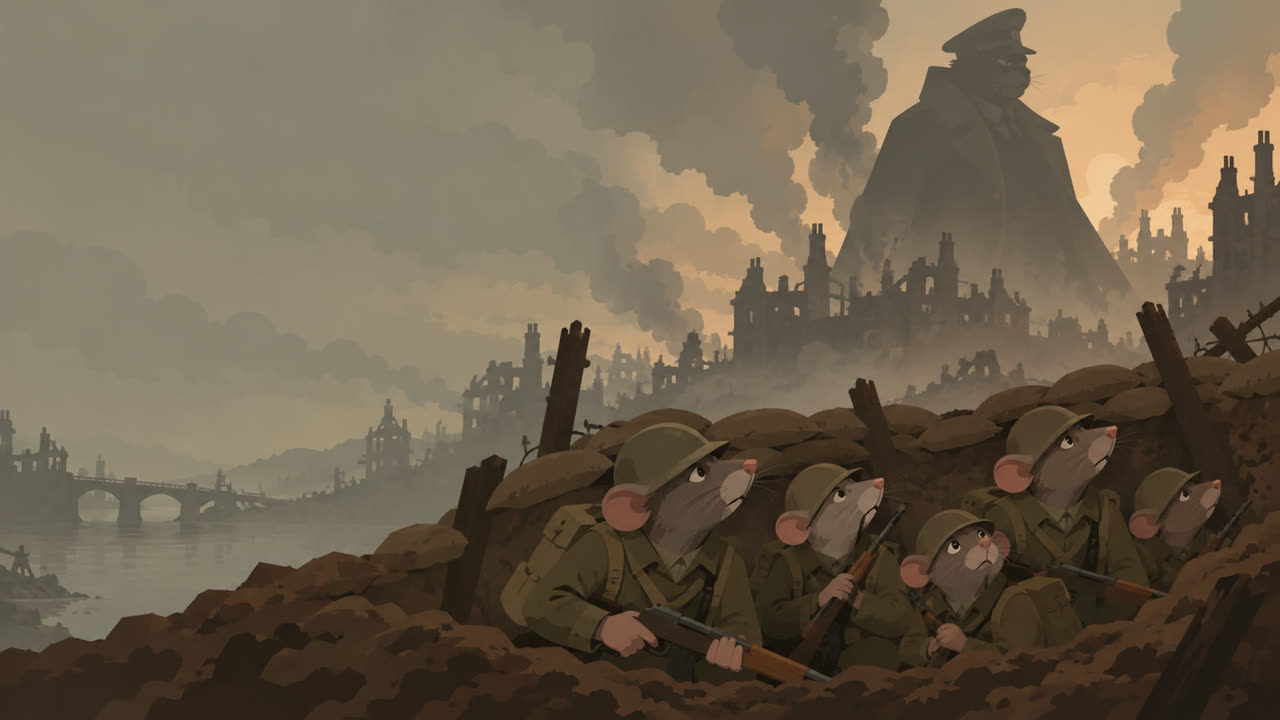
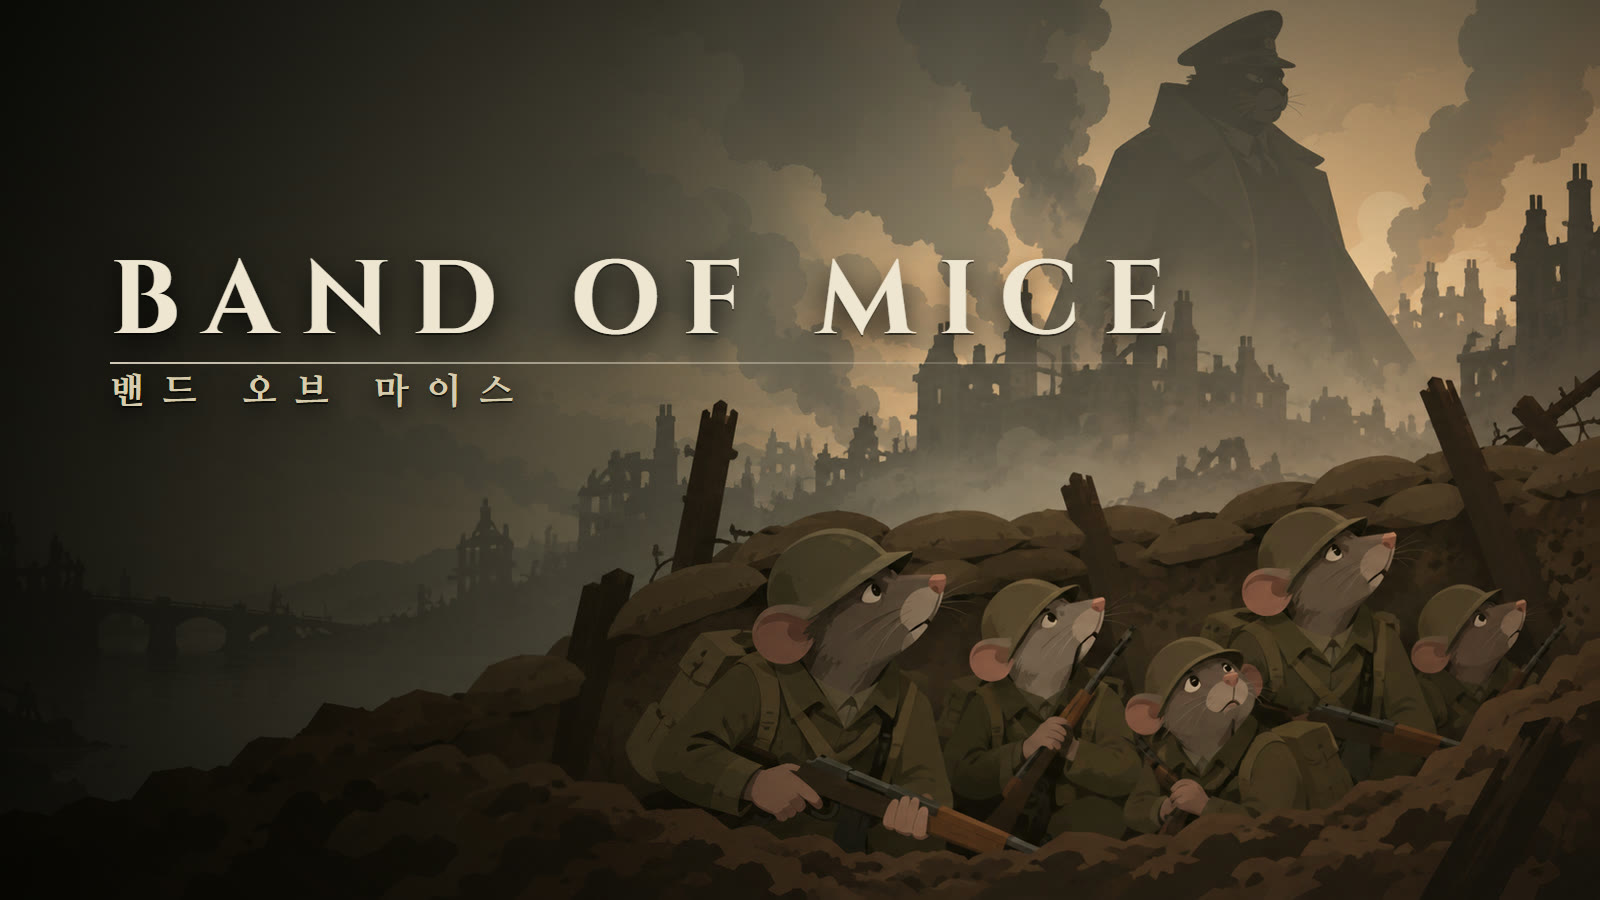
게임 이름 정리(가제) · 타이틀 로고 썸네일
- 쥐적선 → 쥐항해 시대, 쥐스컴 → 밴드 오브 마이스 (폴더 · 파일 · 문구 전체)
- 기사쥐의 모험 · 쥐항해 시대 · 밴드 오브 마이스 표지와 기획서 포스터에 게임별 타이틀 로고 합성
  (기사쥐: 픽셀 팝아트 / 쥐항해 시대: 해도 양피지 리본 / 밴드 오브 마이스: 자간 넓은 세리프)

diff --git a/index.html b/index.html
@@ -1817,12 +1817,12 @@
                             <div class="nf-card-info"><div class="nf-card-kicker">2D ACTION METROIDVANIA</div><h3>기사쥐의 모험</h3><p>쓰레기로 만든 갑옷의 꼬마 기사쥐. 픽셀 팝아트 액션 메트로베니아.</p><div class="card-tags"><span>액션</span><span>메트로베니아</span><span>웹 프로토</span></div></div>
                         </article>
                         <article class="nf-card nf-landscape" onclick="openProjectDetail('ratpirate')">
-                            <div class="card-media"><img src="assets/projects/ratpirate.jpg" alt="쥐적선" loading="lazy"><span class="card-top-badge">S</span><span class="card-new">플레이 가능</span></div>
-                            <div class="nf-card-info"><div class="nf-card-kicker">TOP-VIEW NAVAL ACTION</div><h3>쥐적선</h3><p>뱃전 일제 사격으로 일곱 바다를 정복하는 탑뷰 해전 액션.</p><div class="card-tags"><span>해전</span><span>배 진화</span><span>웹 플레이</span></div></div>
+                            <div class="card-media"><img src="assets/projects/ratpirate.jpg" alt="쥐항해 시대" loading="lazy"><span class="card-top-badge">S</span><span class="card-new">플레이 가능</span></div>
+                            <div class="nf-card-info"><div class="nf-card-kicker">TOP-VIEW NAVAL ACTION</div><h3>쥐항해 시대</h3><p>뱃전 일제 사격으로 일곱 바다를 정복하는 탑뷰 해전 액션.</p><div class="card-tags"><span>해전</span><span>배 진화</span><span>웹 플레이</span></div></div>
                         </article>
                         <article class="nf-card nf-landscape" onclick="openProjectDetail('ratwar')">
-                            <div class="card-media"><img src="assets/projects/ratwar.jpg" alt="쥐스컴 (쥐들의 전쟁)" loading="lazy"><span class="card-top-badge">S</span><span class="card-new">Windows 빌드</span></div>
-                            <div class="nf-card-info"><div class="nf-card-kicker">TURN-BASED TACTICS</div><h3>쥐스컴 (쥐들의 전쟁)</h3><p>고양이 총통에 맞서는 쥐 분대의 턴제 전술과 로스터 관리.</p><div class="card-tags"><span>전술</span><span>영구 사망</span><span>Unity</span></div></div>
+                            <div class="card-media"><img src="assets/projects/ratwar.jpg" alt="밴드 오브 마이스" loading="lazy"><span class="card-top-badge">S</span><span class="card-new">Windows 빌드</span></div>
+                            <div class="nf-card-info"><div class="nf-card-kicker">TURN-BASED TACTICS</div><h3>밴드 오브 마이스</h3><p>고양이 총통에 맞서는 쥐 분대의 턴제 전술과 로스터 관리.</p><div class="card-tags"><span>전술</span><span>영구 사망</span><span>Unity</span></div></div>
                         </article>
                     </div>
                     <button class="row-arrow right" onclick="scrollRow(this,1)" aria-label="다음">›</button>
@@ -2326,12 +2326,12 @@
                             <div class="nf-card-info"><div class="nf-card-kicker">2D ACTION METROIDVANIA</div><h3>기사쥐의 모험</h3><p>쓰레기로 만든 갑옷의 꼬마 기사쥐. 픽셀 팝아트 액션 메트로베니아.</p></div>
                         </article>
                         <article class="nf-card nf-landscape" onclick="openProjectDetail('ratpirate')">
-                            <div class="card-media"><img src="assets/projects/ratpirate.jpg" alt="쥐적선" loading="lazy"><span class="card-top-badge">S</span><span class="card-new">플레이 가능</span></div>
-                            <div class="nf-card-info"><div class="nf-card-kicker">TOP-VIEW NAVAL ACTION</div><h3>쥐적선</h3><p>뱃전 일제 사격으로 일곱 바다를 정복하는 탑뷰 해전 액션.</p></div>
+                            <div class="card-media"><img src="assets/projects/ratpirate.jpg" alt="쥐항해 시대" loading="lazy"><span class="card-top-badge">S</span><span class="card-new">플레이 가능</span></div>
+                            <div class="nf-card-info"><div class="nf-card-kicker">TOP-VIEW NAVAL ACTION</div><h3>쥐항해 시대</h3><p>뱃전 일제 사격으로 일곱 바다를 정복하는 탑뷰 해전 액션.</p></div>
                         </article>
                         <article class="nf-card nf-landscape" onclick="openProjectDetail('ratwar')">
-                            <div class="card-media"><img src="assets/projects/ratwar.jpg" alt="쥐스컴 (쥐들의 전쟁)" loading="lazy"><span class="card-top-badge">S</span><span class="card-new">Windows 빌드</span></div>
-                            <div class="nf-card-info"><div class="nf-card-kicker">TURN-BASED TACTICS</div><h3>쥐스컴 (쥐들의 전쟁)</h3><p>고양이 총통에 맞서는 쥐 분대의 턴제 전술과 로스터 관리.</p></div>
+                            <div class="card-media"><img src="assets/projects/ratwar.jpg" alt="밴드 오브 마이스" loading="lazy"><span class="card-top-badge">S</span><span class="card-new">Windows 빌드</span></div>
+                            <div class="nf-card-info"><div class="nf-card-kicker">TURN-BASED TACTICS</div><h3>밴드 오브 마이스</h3><p>고양이 총통에 맞서는 쥐 분대의 턴제 전술과 로스터 관리.</p></div>
                         </article>
                     </div>
                     <button class="row-arrow right" onclick="scrollRow(this,1)" aria-label="다음">›</button>
@@ -3145,8 +3145,8 @@
             film: { kicker:'FILM PRODUCTION', title:'영화 제작활동', image:'film_banner.png', goal:'영화 제작 현장에서 홍보, 촬영, 음향, 미술, 제작 운영 등 다양한 역할을 수행하며 영상 제작 전반의 실무 경험을 쌓는 것이 목표였습니다.', solution:'2026 동국영화제 운영팀장, 2020 동국영화제 홍보와 PAPIC 콘텐츠 제작부터 학생영화 음향·미술·제작부·PD 업무까지 프로젝트별 요구에 맞춰 현장 운영, 예산, 로케이션, 소품, 데이터 관리를 담당했습니다.', lesson:'현장에서는 사전 계획과 실시간 커뮤니케이션이 결과물의 완성도를 좌우한다는 점을 익혔고, 영화 제작 경험을 게임의 연출·퀘스트·PV 제작으로 확장할 수 있게 되었습니다.' },
             nkk: { kicker:'NKK STUDIO · 부팀장', title:'찍!찍!!찍!!!', image:'assets/projects/nkk.jpg', goal:'기맞기획 11기 기업 협약 프로젝트 2팀(NKK 스튜디오)에서 실험실을 탈출하는 쥐들의 파괴·번식 게임을 웹 프로토타입에서 유니티로 옮기며, 반복 전투가 지루해지지 않는 진행 구조를 만드는 것이 목표였습니다.', solution:'튜토리얼 기획서에서 처음부터 모든 기능을 열지 않고 첫 탄생·10마리·고양이 첫 등장 같은 상황이 처음 생길 때 단계적으로 해금되는 구조를 설계했습니다. 보스 기획서에서는 5층마다 새 보스와 쿨타임 스킬, 2단계 발악을 넣어 리프레시 지점을 만들었습니다.', lesson:'부팀장으로서 팀원들의 증강·스테이지·성장 시스템과 담당 문서가 엑셀 테이블 기준으로 맞물리도록 조율하며, 문서와 데이터와 구현을 한 흐름으로 관리하는 방법을 익혔습니다.' },
             ratknight: { kicker:'2D ACTION METROIDVANIA', title:'기사쥐의 모험', image:'assets/projects/ratknight.jpg', goal:'「찍!찍!!찍!!!」 기사쥐의 우직한 낭만을 이어받아, 도시의 쓰레기로 기사 장비를 만든 꼬마쥐가 전설의 명검을 찾아가는 픽셀 팝아트 액션 메트로베니아를 만드는 것이 목표입니다.', solution:'카타나 제로·할로우 나이트를 레퍼런스로 이동·베기·대시·내려찍기가 끊김 없이 이어지는 조작을 정의하고, 플랫하게 그린 원본을 코드로 도트화한 뒤 칼 궤적을 따라 휘는 칼빛과 팝아트 데미지 숫자를 얹는 연출 파이프라인을 웹 프로토로 검증했습니다.', lesson:'귀여운 겉모습과 묵직한 손맛의 대비처럼, 비주얼 콘셉트와 조작감을 같은 문서 안에서 함께 설계해야 플레이 감각이 일관된다는 점을 확인했습니다.' },
-            ratpirate: { kicker:'TOP-VIEW NAVAL ACTION', title:'쥐적선', image:'assets/projects/ratpirate.jpg', goal:'원작의 해적 쥐를 바다로 확장한 캐주얼 해전 액션으로, 비행 슈팅과는 다른 "배 몰기" 조작 재미와 눈에 보이는 성장을 만드는 것이 목표입니다.', solution:'옆구리를 적에게 돌려야 쏘는 뱃전 일제 사격을 핵심 조작으로 두고, 갤리선에서 현대 함정까지 실제 배 발전 순서대로 진화하는 배 16척과 장비 213종, 조선소 의뢰·합성·티어 업으로 이어지는 재화 순환을 설계해 웹 플레이어블로 구현했습니다.', lesson:'이미 검증한 아웃게임 구조(쥐 비행기 게임)를 새 장르에 맞게 변환하면서, 재사용할 구조와 장르 고유의 재미를 구분하는 기준을 세웠습니다.' },
-            ratwar: { kicker:'TURN-BASED TACTICS', title:'쥐스컴 (쥐들의 전쟁)', image:'assets/projects/ratwar.jpg', goal:'아트 슈피겔만의 「쥐」에서 영감을 받아, 고양이 총통에 맞서는 쥐 분대의 턴제 전술로 전쟁의 참혹함과 개인의 소중함을 전하는 것이 목표입니다.', solution:'엑스컴의 엄폐·명중률 공개·영구 사망과 다키스트 던전의 스트레스·로스터 교대를 결합하고, 부위파괴와 플랫한 톤의 고어로 비극성을 표현했습니다. 4막 16임무 캠페인과 땅굴파기·철조망 갉기 같은 쥐 특성 스킬을 Unity 6 URP로 구현했습니다.', lesson:'명중률 보정 항목을 모두 화면에 공개하는 것처럼, 확률 시스템은 숫자를 숨기지 않을 때 긴장감과 납득감을 함께 줄 수 있다는 점을 배웠습니다.' }
+            ratpirate: { kicker:'TOP-VIEW NAVAL ACTION', title:'쥐항해 시대', image:'assets/projects/ratpirate.jpg', goal:'원작의 해적 쥐를 바다로 확장한 캐주얼 해전 액션으로, 비행 슈팅과는 다른 "배 몰기" 조작 재미와 눈에 보이는 성장을 만드는 것이 목표입니다.', solution:'옆구리를 적에게 돌려야 쏘는 뱃전 일제 사격을 핵심 조작으로 두고, 갤리선에서 현대 함정까지 실제 배 발전 순서대로 진화하는 배 16척과 장비 213종, 조선소 의뢰·합성·티어 업으로 이어지는 재화 순환을 설계해 웹 플레이어블로 구현했습니다.', lesson:'이미 검증한 아웃게임 구조(쥐 비행기 게임)를 새 장르에 맞게 변환하면서, 재사용할 구조와 장르 고유의 재미를 구분하는 기준을 세웠습니다.' },
+            ratwar: { kicker:'TURN-BASED TACTICS', title:'밴드 오브 마이스', image:'assets/projects/ratwar.jpg', goal:'아트 슈피겔만의 「쥐」에서 영감을 받아, 고양이 총통에 맞서는 쥐 분대의 턴제 전술로 전쟁의 참혹함과 개인의 소중함을 전하는 것이 목표입니다.', solution:'엑스컴의 엄폐·명중률 공개·영구 사망과 다키스트 던전의 스트레스·로스터 교대를 결합하고, 부위파괴와 플랫한 톤의 고어로 비극성을 표현했습니다. 4막 16임무 캠페인과 땅굴파기·철조망 갉기 같은 쥐 특성 스킬을 Unity 6 URP로 구현했습니다.', lesson:'명중률 보정 항목을 모두 화면에 공개하는 것처럼, 확률 시스템은 숫자를 숨기지 않을 때 긴장감과 납득감을 함께 줄 수 있다는 점을 배웠습니다.' }
         };
 
         // 4. IGDB 게임 검색 모달 제어
@@ -3820,14 +3820,14 @@
             {
                 project: 'ratpirate',
                 image: 'assets/projects/ratpirate.jpg',
-                title: '쥐적선',
+                title: '쥐항해 시대',
                 meta: '<span class="match">웹빌드 플레이</span><span>2026</span><span class="age">ALL</span><span>탑뷰 해전 액션</span><span class="hd">HD</span>',
                 desc: '뱃전을 돌려 일제 사격하는 탑뷰 해전 액션. 갤리선에서 현대 함정까지 배를 진화시키며 일곱 바다를 정복합니다.'
             },
             {
                 project: 'ratwar',
                 image: 'assets/projects/ratwar.jpg',
-                title: '쥐스컴 (쥐들의 전쟁)',
+                title: '밴드 오브 마이스',
                 meta: '<span class="match">웹빌드 플레이</span><span>2026</span><span class="age">15</span><span>턴제 분대 전술 · Unity</span><span class="hd">HD</span>',
                 desc: '고양이 총통에 맞서는 쥐 분대의 턴제 전술과 로스터 관리. 엑스컴과 다키스트 던전을 결합했습니다.'
             }
